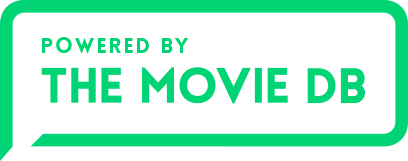
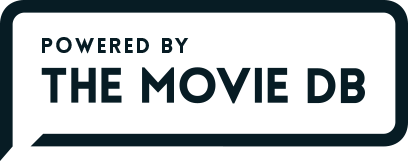
Adjusted color scheme

diff --git a/client/src/pages/Account/index.js b/client/src/pages/Account/index.js
@@ -219,7 +219,7 @@ class Account extends Component {
               <div className="row">
                 {movies.map(movie => (
                   <div className="col-6 col-lg-3" key={movie.id}>
-                    <div className="card border-secondary rounded bg-blue-lt mb-3">
+                    <div className="card border-secondary rounded bg-light-grey mb-3">
                       <div className="card-body">
                         <h6 className="card-title">{movie.title}</h6>
                         {/* <p className="mb-0">Added:</p>
@@ -238,7 +238,7 @@ class Account extends Component {
               <div className="row">
                 {shows.map(show => (
                   <div className="col-6 col-lg-3" key={show.id}>
-                    <div className="card border-secondary rounded bg-blue-lt mb-3">
+                    <div className="card border-secondary rounded bg-light-grey mb-3">
                       <div className="card-body">
                         <h6 className="card-title">{show.title}</h6>
                         {/* <p className="mb-0">Added:</p>
@@ -257,7 +257,7 @@ class Account extends Component {
               <div className="row">
                 {people.map(person => (
                   <div className="col-6 col-lg-3" key={person.id}>
-                    <div className="card border-secondary rounded bg-blue-lt mb-3">
+                    <div className="card border-secondary rounded bg-light-grey mb-3">
                       <div className="card-body">
                         <h6 className="card-title">{person.title}</h6>
                         {/* <p className="mb-0">Added:</p>
@@ -276,7 +276,7 @@ class Account extends Component {
               <div className="row">
                 {comments.map(comment => (
                   <div className="col-6 col-lg-3" key={comment.id}>
-                    <div className="card border-secondary rounded bg-blue-lt mb-3">
+                    <div className="card border-secondary rounded bg-light-grey mb-3">
                       <div className="card-body">
                         <h6 className="card-title">{comment.body}</h6>
                         {/* <p className="mb-0">Added:</p>

diff --git a/client/src/pages/Details/index.js b/client/src/pages/Details/index.js
@@ -778,7 +778,7 @@ class Details extends Component {
                             />
                           </div>
                           <div className="form-group mb-3">
-                            <button className='btn btn-success float-right' type='submit'>Post</button>
+                            <button className='btn btn-outline-dark float-right' type='submit'>Post</button>
                           </div>
                         </form>
                       </div>
@@ -794,7 +794,7 @@ class Details extends Component {
                     {comments[0] ? (
                       comments.map(comment => (
                         <div className="col-12 p-2" key={comment.id}>
-                          <div className="card bg-dark text-white text-left">
+                          <div className="card bg-purple text-white text-left">
                             <div className="card-header">
                               <Gravatar className="rounded-circle" email={comment.userName} size={30} /> {comment.userName}
                               {(user && user.id === comment.userId) &&

diff --git a/client/src/components/App/App.css b/client/src/components/App/App.css
@@ -40,7 +40,6 @@
 }
 .jumbotron {
   background-color: inherit;
-  background-color: #fff7e2;
 }
 .bg-purple-xlt {
   background-color: #e1e9ff;
@@ -60,8 +59,9 @@
 .text-teal {
   color: #e0ffd4;  
 }
-.bg-popcorn {
-  background-color: #fff7e2
+.bg-beige {
+  /* background-color: #f5e7d0 */
+  background-color: #e8f2ee;
 }
 .text-popcorn {
   color: #fff3d4  
@@ -71,4 +71,40 @@
 }
 .text-red-lt {
   color: #ff447f  
+}
+.nav-bg {
+  background-color: #449878;
+}
+.bg-light-green {
+  background-color: #7fc2a8
+}
+.nav-pills .nav-link.active {
+  background-color: #449878;
+}
+a {
+  color: #449878;
+}
+a:hover {
+  color: #28644c;
+}
+.btn-outline-secondary {
+  border-color: #449878;
+  color: #449878;
+}
+.btn-outline-secondary:hover {
+  border-color: #449878;
+  color: #f5f5f5;
+  background-color: #449878;
+}
+.bg-purple {
+  background-color: #352352;
+}
+.btn-outline-dark {
+  border-color: #352352;
+  color: #352352
+}
+.btn-outline-dark:hover {
+  border-color: #352352;
+  background-color: #352352;
+  color: #f5f5f5;
 }

diff --git a/client/src/components/App/App.js b/client/src/components/App/App.js
@@ -58,10 +58,10 @@ class App extends Component {
     return (
       <AuthContext.Provider value={this.state.auth}>
         <Provider store={store}>
-          <div className='App bg-popcorn text-roboto-sm position-relative'>
+          <div className='App bg-beige text-roboto-sm position-relative'>
             <Navigation />
             {/* <SideNav /> */}
-            <div className="bg-popcorn" id="app-body">
+            <div className="bg-beige" id="app-body">
               <Switch className="mb-5">
                 <Route exact path='/' component={Home} />
                 <Route path='/discover' component={Discover} />

diff --git a/client/src/components/ResultsGrid/index.js b/client/src/components/ResultsGrid/index.js
@@ -60,7 +60,7 @@ function ResultsGrid(props) {
     <div className="ResultsGrid row no-gutters justify-content-center">
       {props.results.map(result => (
         <div className="col-6 col-md-4 col-lg-6 col-xl-3 p-3" key={result.id}>
-          <div className="card border-dark rounded bg-blue-lt mb-3">
+          <div className="card border-dark rounded bg-light-grey mb-3">
             <div className="row no-gutters">
               <div className="col-12 col-lg-5">
                 <img

diff --git a/client/src/components/Navigation/index.js b/client/src/components/Navigation/index.js
@@ -20,7 +20,7 @@ class Navigation extends Component {
     const targetClass = `collapse navbar-collapse ${!collapsed && 'show'}`
 
     return (
-      <div className='Navigation sticky-top bg-navy'>
+      <div className='Navigation sticky-top nav-bg'>
         <nav className='navbar navbar-dark navbar-expand-lg'>
           <img className="brand-img" src={Popcorn} alt="Pop Media"/>
           <Link className='navbar-brand' to='/'>Pop Media</Link>

diff --git a/client/src/components/Loader/style.css b/client/src/components/Loader/style.css
@@ -19,7 +19,7 @@
 }
 .bounce-loader > span {
   display: inline-block;
-  background-color: purple;
+  /* background-color: purple; */
   height: 0;
   width: 0;
   border-radius: 50%;
@@ -28,7 +28,7 @@
   animation: bounce 0.9s infinite alternate;
 }
 .bounce-loader > span:nth-child(2) {
-  background-color: palevioletred;
+  /* background-color: palevioletred; */
   animation-delay: 0.3s;
 }
 .bounce-loader > span:nth-child(3) {

diff --git a/client/src/components/Loader/index.js b/client/src/components/Loader/index.js
@@ -6,9 +6,9 @@ const Loader = () => {
   return (
     <div className="align-center" id="loader">
       <div className="bounce-loader mt-4">
-        <span></span>
-        <span></span>
-        <span></span>
+        <span className="nav-bg"></span>
+        <span className="bg-light-green"></span>
+        <span className="nav-bg"></span>
       </div>
     </div>
   )

diff --git a/client/src/components/Footer/index.js b/client/src/components/Footer/index.js
@@ -5,7 +5,7 @@ import LogoTmdb from '../../img/tmdb.png'
 
 const Footer = () => {
   return (
-    <footer className="Footer">
+    <footer className="Footer nav-bg">
       <div className="container text-white" id="footer-row">
         <div className="row h-100">
           <div className="col-8 col-md-4 h-100 ml-auto">

diff --git a/client/src/pages/Details/style.css b/client/src/pages/Details/style.css
@@ -23,9 +23,13 @@
   color: white;
   border-radius: 10px;
 }
+
 .bg-light-grey {
-  background-color: rgb(170, 170, 170);
+  /* background-color: rgb(170, 170, 170); */
+  /* background-color: #f2ebe8; */
+  background-color: #a2ccbb;
 }
+
 #cast-container {
   border-radius: 10px;
   min-height: 295px;

diff --git a/client/src/components/Footer/style.css b/client/src/components/Footer/style.css
@@ -1,12 +1,12 @@
 .Footer {
   margin-top: 10%;
-  background-color: navy;
   position: absolute;
   left: 0;
   bottom: 0;
   width: 100%;
   height: 70px;
   line-height: 60px;
+  color: #f5f5f5;
 }
 
 #tmdb-logo {
@@ -15,4 +15,7 @@
 
 #footer-row {
   height: 100%;
+}
+i {
+  color: #f5f5f5;
 }

diff --git a/client/src/components/Navigation/style.css b/client/src/components/Navigation/style.css
@@ -1,5 +1,5 @@
 .Navigation {
-  color: white;
+  color: #f5f5f5;
   /* min-height: 70px; */
 }
 
